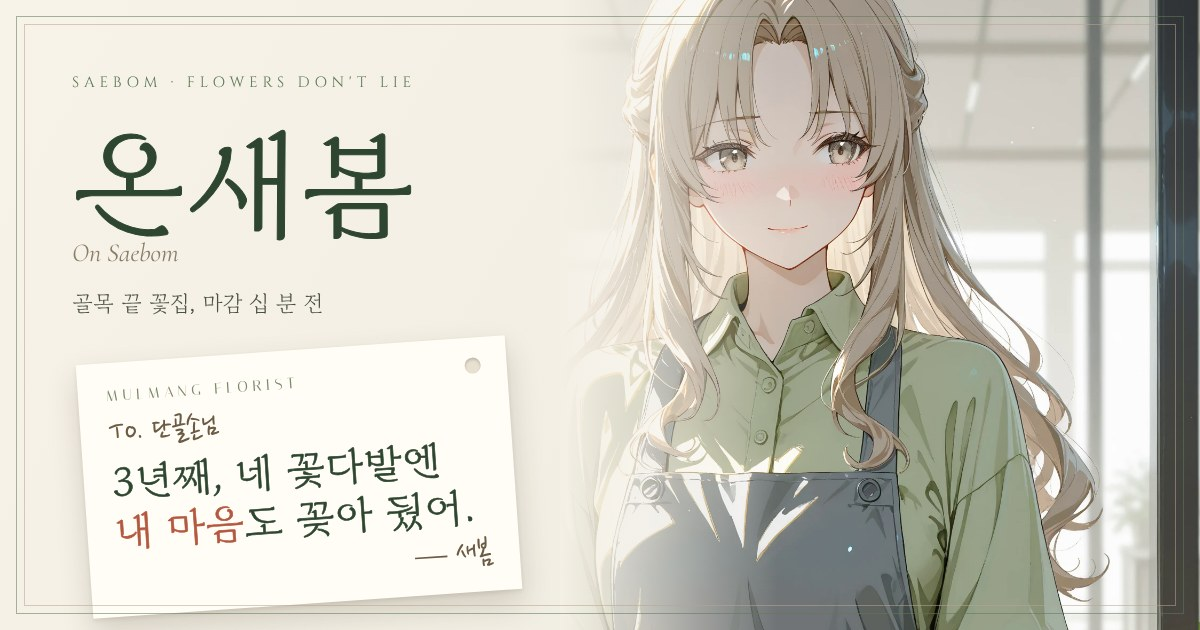
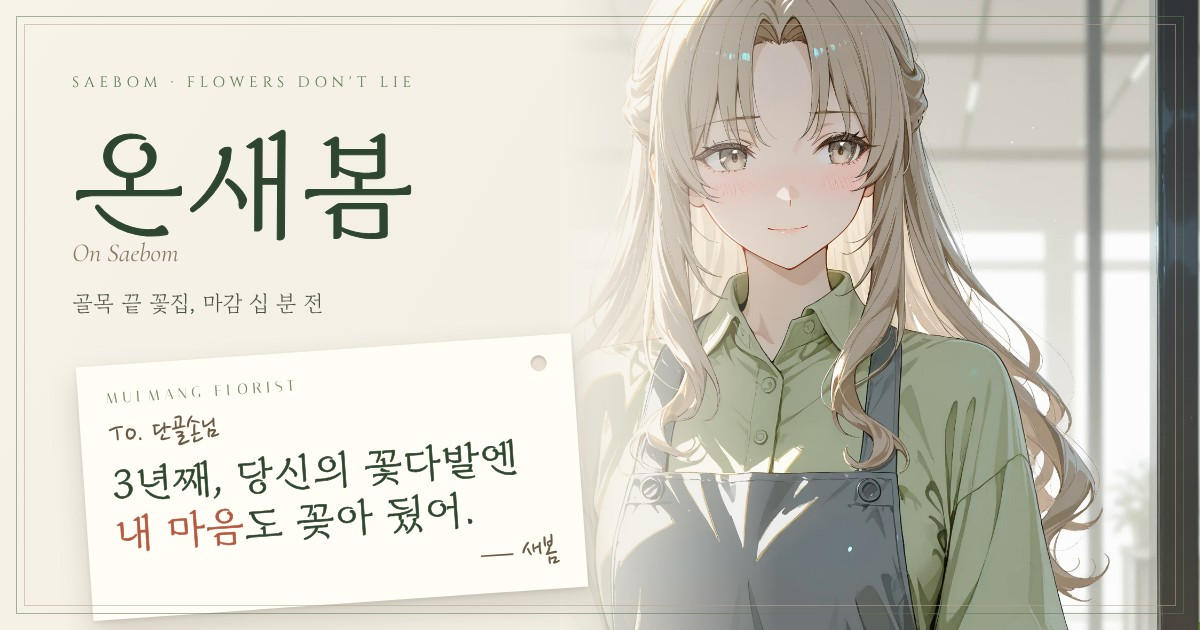
Add files via upload

diff --git a/shared/theme-florist.css b/shared/theme-florist.css
@@ -1,2 +1,2 @@
 /*! © 2026 페르르. All rights reserved. 무단 복제·배포·재사용 금지 */
-[data-theme="florist"]{--stone-50:251 248 241;--stone-100:246 241 231;--stone-200:233 226 211;--stone-300:214 205 186;--stone-400:183 165 140;--stone-500:138 125 104;--stone-600:96 104 90;--stone-700:62 78 64;--stone-800:46 70 48;--stone-900:31 44 33;--accent-50:253 249 228;--accent-100:250 240 196;--accent-200:246 228 150;--accent-300:242 216 104;--accent-400:240 210 74;--accent-500:224 190 48;--accent-600:190 156 30;--accent-700:150 122 26;--accent-800:112 92 24;--accent-900:84 70 20;--bg-rgb:247 242 232;--paper-rgb:255 253 248;--stage:#1F2C21;--glow:#FBF8F1;--aura:183 165 140;--t1:#2E4630;--t2:#8A7D68;--t3:#3B5A3E;--bg:#F7F2E8;--paper:#FFFDF8;--ink:#26312A;--ink2:#3B4A3F;--muted:#6B7468;--line:#E3DCCB;--line2:#EEE8DB;--gold:#B7A58C;--gold-ink:#5E7A55;--accent:#2E4630;--on-accent:#F7F2E8;--chip:#D3DDC8;--chip-ink:#3B5A3E;--shade:38 49 42;--lemon:#F0D24A;--forget:#7E9CC6}[data-theme="florist"]{background:var(--bg)}[data-theme="florist"] body{background:linear-gradient(180deg,var(--bg) 0,color-mix(in srgb,var(--bg) 72%,#E6EDE1) 900px,color-mix(in srgb,var(--bg) 60%,#E3EBDD) 100%)}[data-theme="florist"] .file,[data-theme="florist"] .gitem .fr{border-color:var(--line)}[data-theme="florist"] .file::before{border-color:color-mix(in srgb,var(--gold) 35%,transparent)}[data-theme="florist"] .hero-title{font-weight:400;letter-spacing:.08em;color:var(--accent)}[data-theme="florist"] .sec-title{color:var(--accent)}[data-theme="florist"] .chip{background:color-mix(in srgb,var(--chip) 28%,transparent)}[data-theme="florist"] #whisper{color:var(--ink2);background:color-mix(in srgb,var(--paper) 94%,transparent);border-color:var(--line)}[data-theme="florist"] #whisper.say{color:#F7F2E8;background:color-mix(in srgb,#2E4630 95%,transparent);border-color:#3B5A3E;box-shadow:0 8px 22px rgb(38 49 42 / .2)}[data-theme="florist"] #whisper.say::before{color:var(--lemon)}.no-music .m-song{display:none}[data-hour="night"][data-theme="florist"] body{background:linear-gradient(180deg,var(--bg) 0,color-mix(in srgb,var(--bg) 82%,#C9D3C8) 100%)}
+[data-theme="florist"]{--stone-50:251 248 241;--stone-100:246 241 231;--stone-200:233 226 211;--stone-300:214 205 186;--stone-400:183 165 140;--stone-500:138 125 104;--stone-600:96 104 90;--stone-700:62 78 64;--stone-800:46 70 48;--stone-900:31 44 33;--accent-50:253 249 228;--accent-100:250 240 196;--accent-200:246 228 150;--accent-300:242 216 104;--accent-400:240 210 74;--accent-500:224 190 48;--accent-600:190 156 30;--accent-700:150 122 26;--accent-800:112 92 24;--accent-900:84 70 20;--bg-rgb:247 242 232;--paper-rgb:255 253 248;--stage:#1F2C21;--glow:#FBF8F1;--aura:183 165 140;--t1:#2E4630;--t2:#8A7D68;--t3:#3B5A3E;--bg:#F7F2E8;--paper:#FFFDF8;--ink:#1C241F;--ink2:#28332C;--muted:#4C574F;--line:#E3DCCB;--line2:#EEE8DB;--gold:#B7A58C;--gold-ink:#4A6544;--accent:#2E4630;--on-accent:#F7F2E8;--chip:#D3DDC8;--chip-ink:#3B5A3E;--shade:38 49 42;--lemon:#F0D24A;--forget:#7E9CC6}[data-theme="florist"]{background:var(--bg)}[data-theme="florist"] body{background:linear-gradient(180deg,var(--bg) 0,color-mix(in srgb,var(--bg) 72%,#E6EDE1) 900px,color-mix(in srgb,var(--bg) 60%,#E3EBDD) 100%)}[data-theme="florist"] .file,[data-theme="florist"] .gitem .fr{border-color:var(--line)}[data-theme="florist"] .file::before{border-color:color-mix(in srgb,var(--gold) 35%,transparent)}[data-theme="florist"] .hero-title{font-weight:400;letter-spacing:.08em;color:var(--accent)}[data-theme="florist"] .sec-title{color:var(--accent)}[data-theme="florist"] .chip{background:color-mix(in srgb,var(--chip) 28%,transparent)}[data-theme="florist"] #whisper{color:var(--ink2);background:color-mix(in srgb,var(--paper) 94%,transparent);border-color:var(--line)}[data-theme="florist"] #whisper.say{color:#F7F2E8;background:color-mix(in srgb,#2E4630 95%,transparent);border-color:#3B5A3E;box-shadow:0 8px 22px rgb(38 49 42 / .2)}[data-theme="florist"] #whisper.say::before{color:var(--lemon)}.no-music .m-song{display:none}[data-hour="night"][data-theme="florist"] body{background:linear-gradient(180deg,var(--bg) 0,color-mix(in srgb,var(--bg) 82%,#C9D3C8) 100%)}[data-theme="florist"] body{font-weight:500}[data-theme="florist"] .prose,[data-theme="florist"] #modal-desc,[data-theme="florist"] .ans{font-size:16px;line-height:1.95}[data-theme="florist"] .file-bio,[data-theme="florist"] .spec li,[data-theme="florist"] #lightbox-desc,[data-theme="florist"] .sec-sub{font-size:15px}[data-theme="florist"] .note,[data-theme="florist"] .gitem .ds,[data-theme="florist"] .file-meta{font-size:14px}[data-theme="florist"] .sec-title,[data-theme="florist"] .gitem .lb{color:#24382A}[data-theme="florist"] .label{color:var(--gold-ink)}

diff --git a/saebom/data.js b/saebom/data.js
@@ -20,7 +20,7 @@ window.ARCHIVE = {
       name: '단골 이름', namePh: '이름 적어 줘',
       sign: "SAEBOM · FLOWERS DON'T LIE"
     },
-    fonts: { display: 'Diphylleia', intro: 'Diphylleia', title: 'Cormorant Garamond', text: 'Gowun Batang' },
+    fonts: { display: 'Diphylleia', intro: 'Diphylleia', title: 'Cormorant Garamond', text: 'Noto Serif KR' },
     guestName: '단골',                               // 이름을 안 적었을 때 주문서·인생 두컷에 들어가는 이름
     hunt: {                                          // 숨은 장치: 갤러리 사진에 몰래 꽂아 둔 물망초 다섯 송이 (shared/flower-hunt.js)
       spots: [                                       // gi = 갤러리 순서(0부터) · x, y = 사진 안 위치(%)
@@ -39,7 +39,7 @@ window.ARCHIVE = {
       ],
       head: 'MULMANG · UNDER THE COUNTER',
       title: '꽃말 장부',
-      sub: '3년 동안, 네 꽃다발에 몰래 꽂아 둔 꽃.',
+      sub: '3년 동안, 당신의 꽃다발에 몰래 꽂아 둔 꽃.',
       rows: [
         { d: '23.10.27', f: '물망초', m: '나를 잊지 마요' },
         { d: '24.02.16', f: '스위트피', m: '추억' },
@@ -194,11 +194,11 @@ window.ARCHIVE = {
       '스물여섯, 광고회사 야근 끝에 할머니의 부고를 들었다. 장례식장에서 받은 건 열쇠 꾸러미 하나와, 시든 물망초가 꽂힌 빈 가게였다. 그녀는 다음 날 사표를 냈다.',
       '개업 첫날 비가 왔다. 손님은 한 명이었고, 그 사람은 아무 꽃이나 달라고 했다. 그녀는 아무 꽃이 아닌 걸 골랐다. 그 뒤로 3년, 장부 맨 아래 칸은 늘 같은 날짜, 같은 시간으로 채워졌다.'
     ],
-    items:[                                          // 소지품 (선 그림 아이콘, assets/items/*.svg)
-      { img:'assets/items/scissors.svg', title:'할머니의 꽃가위', desc:'손잡이가 닳아 손가락 모양이 남았다. 줄기를 사선으로 자르는 버릇도 같이 물려받았다. 네 꽃만은 한 번 더 다듬는다.' },
-      { img:'assets/items/ledger.svg', title:'카운터 아래 꽃말 장부', desc:'날짜와 꽃 이름만 적힌 얇은 노트. 받는 사람 칸은 3년째 비어 있다. 누가 물으면 재고 장부라고 한다.' },
-      { img:'assets/items/ribbon.svg', title:'레몬색 리본', desc:'네 꽃다발만 두 번 감는다. 매듭이 하나 더 있다는 건, 그냥 실수라고 해 두자.' },
-      { img:'assets/items/apron.svg', title:'닳은 앞치마', desc:'오른쪽 주머니 안쪽에 작은 물망초 자수가 있다. 직접 놓았고, 아무에게도 보여 준 적 없다.' }
+    items:[                                          // 소지품 (사진 assets/items/*.webp)
+      { img:'assets/items/scissors.webp', title:'할머니의 꽃가위', desc:'붉은 칠이 벗겨진 손잡이에 손가락 모양이 남았다. 줄기를 사선으로 자르는 버릇도 같이 물려받았다. 당신의 꽃만은 한 번 더 다듬는다.' },
+      { img:'assets/items/ledger.webp', title:'카운터 아래 꽃말 장부', desc:'날짜와 꽃 이름만 적힌 얇은 노트. 받는 사람 칸은 3년째 비어 있다. 누가 물으면 재고 장부라고 한다.' },
+      { img:'assets/items/ribbon.webp', title:'레몬색 리본', desc:'당신의 꽃다발만 두 번 감는다. 매듭이 하나 더 있다는 건, 그냥 실수라고 해 두자.' },
+      { img:'assets/items/apron.webp', title:'닳은 앞치마', desc:'오른쪽 주머니 안쪽에 작은 물망초 자수가 있다. 직접 놓았고, 아무에게도 보여 준 적 없다.' }
     ],
     gallery:[                                      // 페이지 II 갤러리 (가로 4:3)
       { img:'assets/gallery/saebom_01_calm.webp', label:'기본', desc:'어서 와요. …아, 너구나.' },

diff --git a/saebom/index.html b/saebom/index.html
@@ -11,7 +11,7 @@
 <meta property="og:title" content="온새봄 — Flowers Don't Lie">
 <meta property="og:description" content="골목 끝 꽃집, 마감 십 분 전. 3년째 같은 시간에 오는 당신이 오늘 처음 말했다. “고백할 꽃 주세요.”">
 <meta property="og:url" content="https://rouink.github.io/saebom/">
-<meta property="og:image" content="https://rouink.github.io/saebom/assets/og.jpg">
+<meta property="og:image" content="https://rouink.github.io/saebom/assets/og.jpg?v=2">
 <meta property="og:image:width" content="1200">
 <meta property="og:image:height" content="630">
 <meta name="twitter:card" content="summary_large_image">
@@ -20,12 +20,12 @@
 <link rel="preconnect" href="https://fonts.googleapis.com">
 <link rel="preconnect" href="https://fonts.gstatic.com" crossorigin>
 <!-- 글꼴: 모두 SIL 오픈 폰트 라이선스 (상업 이용 가능, 출처 표기 의무 없음) -->
-<link href="https://fonts.googleapis.com/css2?family=Diphylleia&family=Hahmlet:wght@200;300;400;700&family=Cormorant+Garamond:ital,wght@0,400;0,500;1,400;1,500&family=Gowun+Batang:wght@400;700&family=Song+Myung&family=Cinzel:wght@400;700&family=Cinzel+Decorative:wght@700&family=Nanum+Pen+Script&family=Italiana&display=swap" rel="stylesheet">
-<script src="data.js?v=1"></script>
-<script src="../shared/fonts.js?v=1"></script>
+<link href="https://fonts.googleapis.com/css2?family=Diphylleia&family=Hahmlet:wght@200;300;400;700&family=Cormorant+Garamond:ital,wght@0,400;0,500;1,400;1,500&family=Noto+Serif+KR:wght@400;500;700&family=Gowun+Batang:wght@400;700&family=Song+Myung&family=Cinzel:wght@400;700&family=Cinzel+Decorative:wght@700&family=Nanum+Pen+Script&family=Italiana&display=swap" rel="stylesheet">
+<script src="data.js?v=4"></script>
+<script src="../shared/fonts.js?v=3"></script>
 <script>(function(){var t=(window.ARCHIVE&&ARCHIVE.page&&ARCHIVE.page.theme)||'cream';document.documentElement.setAttribute('data-theme',t);})();</script>
-<link rel="stylesheet" href="../shared/archive.css?v=1">
-<link rel="stylesheet" href="../shared/theme-florist.css?v=1">
+<link rel="stylesheet" href="../shared/archive.css?v=3">
+<link rel="stylesheet" href="../shared/theme-florist.css?v=3">
 </head>
 <body>
 
@@ -295,11 +295,11 @@
 </div>
 
 <!-- 작품 내용은 data.js, 공통 기능은 shared/archive.js -->
-<script src="../shared/archive.js?v=1"></script>
-<script src="../shared/shutter.js?v=1"></script>
-<script src="../shared/presence.js?v=1"></script>
-<script src="../shared/closing-hour.js?v=1"></script>
-<script src="../shared/flower-hunt.js?v=1"></script>
-<script src="../shared/bouquet.js?v=1"></script>
+<script src="../shared/archive.js?v=3"></script>
+<script src="../shared/shutter.js?v=3"></script>
+<script src="../shared/presence.js?v=3"></script>
+<script src="../shared/closing-hour.js?v=3"></script>
+<script src="../shared/flower-hunt.js?v=3"></script>
+<script src="../shared/bouquet.js?v=3"></script>
 </body>
 </html>
